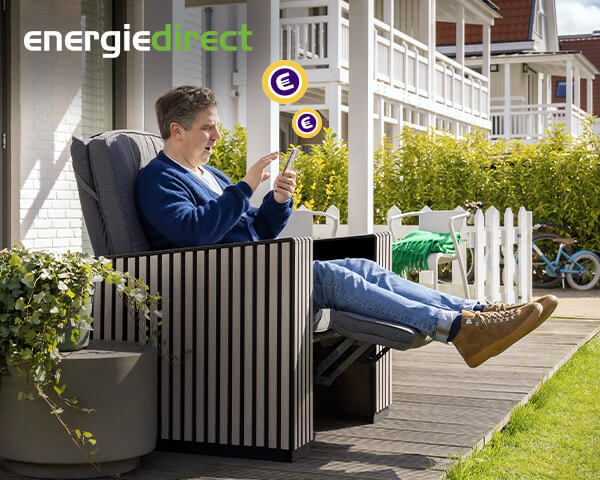
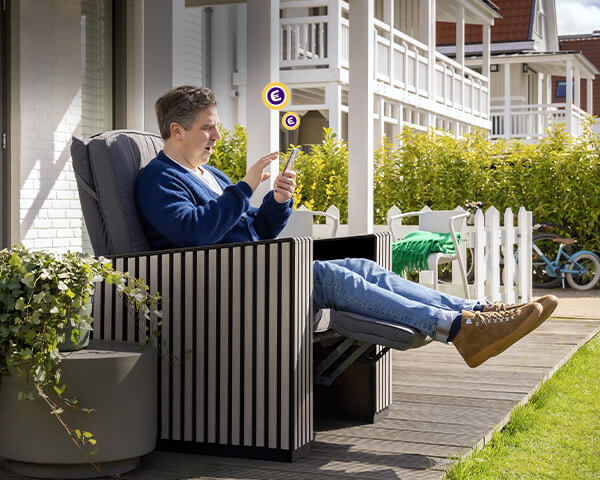
feedback on masters

Changed region(s): [[0.03, 0.0312, 0.42, 0.125], [0.42, 0.125, 0.54, 0.2812]]

diff --git a/preview/ED_Goedzitters/IAB/300x600_Goedzitters/main.js b/preview/ED_Goedzitters/IAB/300x600_Goedzitters/main.js
@@ -18,8 +18,9 @@ function init() {
     })
 
     document.querySelector("#mainExit").addEventListener("click", function(){
-        window.open(clickTag, '_blank');
-        masterTL.progress(1).pause();
+        // window.open(clickTag, '_blank');
+        // masterTL.progress(1).pause();
+        masterTL.pause();
     })
 
     getAnimation();
@@ -34,37 +35,39 @@ function getAnimation(){
         gsap.set("#loaderWrapper", {display:"none"});
     }}, 0)
     masterTL.add("start");
-    masterTL.to("#top", 7.5, {rotation:-30, transformOrigin:"50% 55%", ease:Sine.easeInOut}, "start+=0.5");
-    masterTL.from("#feet", 7.5, {rotation:10, transformOrigin:"50% 55%", ease:Sine.easeInOut}, "start+=0.5");
+    masterTL.from("#feet", 3, {rotation:10, transformOrigin:"50% 55%", ease:Sine.easeInOut}, "start+=0.5");
     masterTL.from("#text1", 0.3, {opacity:0, ease:Sine.easeInOut}, "start+=0.5");
     masterTL.from("#text1GreenWrapper", 0.5, {width:0, ease:Sine.easeInOut}, "start+=1");
     masterTL.add("frame2", 3.5);
     masterTL.to(["#text1", "#text1GreenWrapper"], 0.3, {opacity:0, ease:Sine.easeInOut}, "frame2+=0.3");
     masterTL.from("#text2", 0.3, {opacity:0, ease:Sine.easeInOut}, "frame2+=0.5");
+    masterTL.to("#top", 3, {rotation:-30, transformOrigin:"50% 55%", ease:Sine.easeInOut}, "frame2+=0.5");
+    masterTL.from("#text2GreenWrapper", 0.5, {width:0, ease:Sine.easeInOut}, "frame2+=1");
     masterTL.add("frame3", 7);
-    masterTL.to("#text2", 0.3, {opacity:0, ease:Sine.easeInOut}, "frame3+=0.3");
+    masterTL.to(["#text2", "#text2GreenWrapper"], 0.3, {opacity:0, ease:Sine.easeInOut}, "frame3+=0.3");
     masterTL.from("#text3", 0.3, {opacity:0, ease:Sine.easeInOut}, "frame3+=0.5");
+    masterTL.from("#text3GreenWrapper", 0.5, {width:0, ease:Sine.easeInOut}, "frame3+=1");
     masterTL.add("frame4", 10.5);
     masterTL.from("#endScreen", .5, {opacity:0, ease:Sine.easeInOut}, "frame4");
     masterTL.from("#text4", 0.5, {x:-300, ease:Sine.easeOut}, "frame4+=0.5");
     masterTL.from("#cta", .5, {scale:0, ease:Back.easeOut}, "frame4+=1");
     masterTL.to("#banner", .5, {}, 14.5);    
     
-    masterTL.from("#coin1", 3, {scale:0, x:67, y:73, rotation:70, ease:Sine.easeIn}, "start+=0.5");
+    masterTL.to("#coin1", 3, {scale:0.5, x:30, y:-60, rotation:70, ease:Sine.easeIn}, "start+=0.5");
     masterTL.to("#coin1", 0.5, {opacity:0, ease:Sine.easeIn}, "start+=2.5");
     
-    masterTL.from("#coin2", 3, {scale:0, x:10, y:73, rotation:-45, ease:Sine.easeIn}, "start+=1");
+    masterTL.to("#coin2", 3, {scale:0.5, x:-10, y:-60, rotation:-45, ease:Sine.easeIn}, "start+=1");
     masterTL.to("#coin2", 0.5, {opacity:0, ease:Sine.easeIn}, "start+=3");
     
-    masterTL.from("#coin3", 3, {scale:0, x:35, y:73, rotation:55, ease:Sine.easeIn}, "start+=2");
+    masterTL.to("#coin3", 3, {scale:0.5, x:20, y:-60, rotation:55, ease:Sine.easeIn}, "start+=2");
     masterTL.to("#coin3", 0.5, {opacity:0, ease:Sine.easeIn}, "start+=4.5");
     
-    masterTL.from("#coin4", 3, {scale:0, x:67, y:73, rotation:70, ease:Sine.easeIn}, "start+=4");
+    masterTL.to("#coin4", 3, {scale:1, x:-80, y:-73, rotation:70, ease:Sine.easeIn}, "start+=4");
     masterTL.to("#coin4", 0.5, {opacity:0, ease:Sine.easeIn}, "start+=6.5");
 
-    masterTL.from("#coin5", 3, {scale:0, x:10, y:73, rotation:-45, ease:Sine.easeIn}, "start+=4.5");
-    masterTL.to("#coin5", 0.5, {opacity:0, ease:Sine.easeIn}, "start+=7");
+    masterTL.to("#coin5", 3, {scale:1, x:-130, y:-73, rotation:-45, ease:Sine.easeIn}, "start+=5");
+    masterTL.to("#coin5", 0.5, {opacity:0, ease:Sine.easeIn}, "start+=7.5");
 
-    masterTL.from("#coin6", 3, {scale:0, x:35, y:73, rotation:55, ease:Sine.easeIn}, "start+=5.5");
+    masterTL.to("#coin6", 3, {scale:1, x:-40, y:-73, rotation:55, ease:Sine.easeIn}, "start+=5.5");
     masterTL.to("#coin6", 0.5, {opacity:0, ease:Sine.easeIn}, "start+=8");
 }

diff --git a/preview/ED_Goedzitters/Swipecubes/Swipecube_Goedzitters/weborama_swiper.html b/preview/ED_Goedzitters/Swipecubes/Swipecube_Goedzitters/weborama_swiper.html
@@ -40,10 +40,10 @@
                 <div id="text1">SCOOR SNEL<BR>EURO’S MET ONS<BR>BONUSPROGRAMMA<BR><span class="greenColor">GOEDZITTERS.</span></div>
             </div>
             <div data-report="slide002" class="swiper-slide" style="background-image:url(slide2.jpg)" onclick="screenad.click('extra1');">
-                <div id="text2">Cash alle<BR>bonussen met<BR>simpele acties.</div>
+                <div id="text2">Cash alle<BR><span class="greenColor">bonussen </span>met<BR>simpele acties.</div>
             </div>
             <div data-report="slide003" class="swiper-slide" style="background-image:url(slide3.jpg)" onclick="screenad.click('extra2');">
-                <div id="text3">Dan zit je direct<BR>nóg beter.</div>
+                <div id="text3">Dan <span class="greenColor">zit </span>je direct<BR>nóg beter.</div>
             </div>
             <div data-report="slide004" class="swiper-slide" style="background-image:url(slide4.jpg)" onclick="screenad.click('extra3');">
                 <div id="text4">Voordeel<BR>regel je zelf.</div>

diff --git a/preview/ED_Goedzitters/IAB/300x600_Goedzitters/style.css b/preview/ED_Goedzitters/IAB/300x600_Goedzitters/style.css
@@ -70,12 +70,16 @@ img, div, object{
 width: 100%;
 }
 
+#text3GreenWrapper,
+#text2GreenWrapper,
 #text1GreenWrapper{
     width: 100%;
     height: 100%;
     overflow: hidden;
 }
 
+#text3Green,
+#text2Green,
 #text1Green{
     width: 300px;
 }
@@ -109,36 +113,42 @@ width: 100%;
 
 #coin1{
     width: 55px;
-    top: 50px;
-    left: 130px;
+    top: 114px;
+    left: 196px;
+    transform: scale(0);
 }
 
 #coin2{
     width: 55px;
-    top: 50px;
-    left: 180px;
+    top: 114px;
+    left: 196px;
+    transform: scale(0);
 }
 
 #coin3{
     width: 55px;
-    top: 50px;
-    left: 155px;
+    top: 114px;
+    left: 196px;
+    transform: scale(0);
 }
 
 #coin4{
     width: 55px;
-    top: 40px;
-    left: 80px;
+    top: 120px;
+    left: 175px;
+    transform: scale(0);
 }
 
 #coin5{
     width: 55px;
-    top: 50px;
-    left: 130px;
+    top: 120px;
+    left: 143px;
+    transform: scale(0);
 }
 
 #coin6{
     width: 55px;
-    top: 50px;
-    left: 105px;
+    top: 120px;
+    left: 120px;
+    transform: scale(0);
 }

diff --git a/preview/ED_Goedzitters/IAB/300x600_Goedzitters/index.html b/preview/ED_Goedzitters/IAB/300x600_Goedzitters/index.html
@@ -32,8 +32,15 @@
             <img id="text1Green" src="text1_green.png">
         </div>
         
-        <img id="text2" src="text2.png">        
+        <img id="text2" src="text2.png">   
+        <div id="text2GreenWrapper">
+            <img id="text2Green" src="text2_green.png">
+        </div>
+
         <img id="text3" src="text3.png">
+        <div id="text3GreenWrapper">
+            <img id="text3Green" src="text3_green.png">
+        </div>
 
         <img id="logo" src="logo.png">
 
